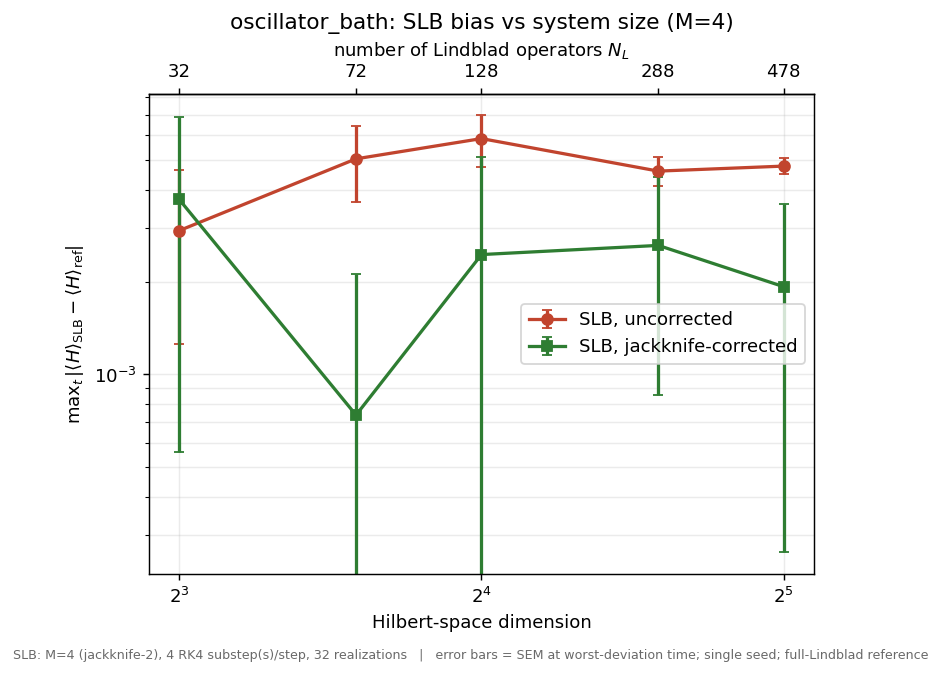
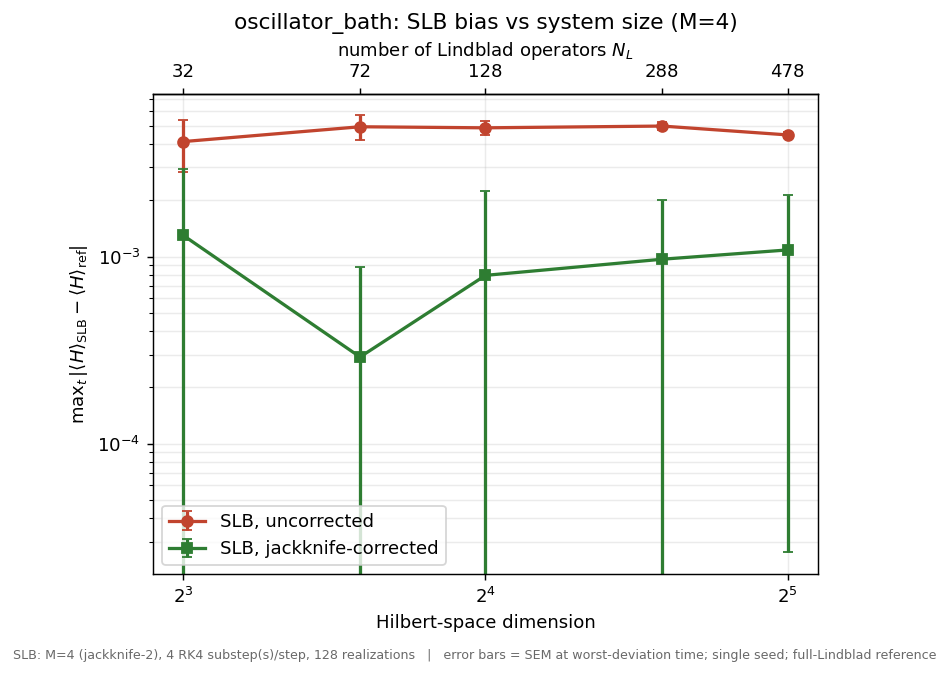
Raise jackknife realizations to 128; note oscillator residual is at the noise floor
Tighter corrected-bias error bars on the spin chain. On the oscillator the jackknife drives the residual to the noise floor, so its wide log-axis bars reflect a near-zero signal, not instability — stated explicitly in BENCHMARKS.md.

diff --git a/benchmarks/benchmark_jackknife.py b/benchmarks/benchmark_jackknife.py
@@ -56,7 +56,7 @@ from benchmark_scaling import (
 # CONFIG
 # ===========================================================================
 M = 4                        # fixed bundle size for the whole study (must be even)
-N_REALIZATIONS = 32          # enough that the SEM on the mean is well below the
+N_REALIZATIONS = 128         # enough that the SEM on the mean is well below the
                              # bias we are trying to resolve (bias does not shrink
                              # with realizations; the noise on its estimate does)
 SEED = 12345

diff --git a/benchmarks/BENCHMARKS.md b/benchmarks/BENCHMARKS.md
@@ -275,7 +275,11 @@ correction suppresses it.
 
 The uncorrected bias rises steeply with dimension while the jackknife-corrected
 bias stays comparatively flat — so the error growth at fixed `M` is a known,
-correctable effect, not a breakdown of the method.
+correctable effect, not a breakdown of the method. On the oscillator the
+correction is strong enough that the residual bias sits at the noise floor: the
+corrected points are consistent with zero, so their wide error bars on the log
+axis reflect a small absolute uncertainty around a near-zero value, not
+instability.
 
 **Seed robustness.** Both SLB and mcsolve are stochastic; the other figures fix
 one seed for reproducibility. Recomputing the frontier across several